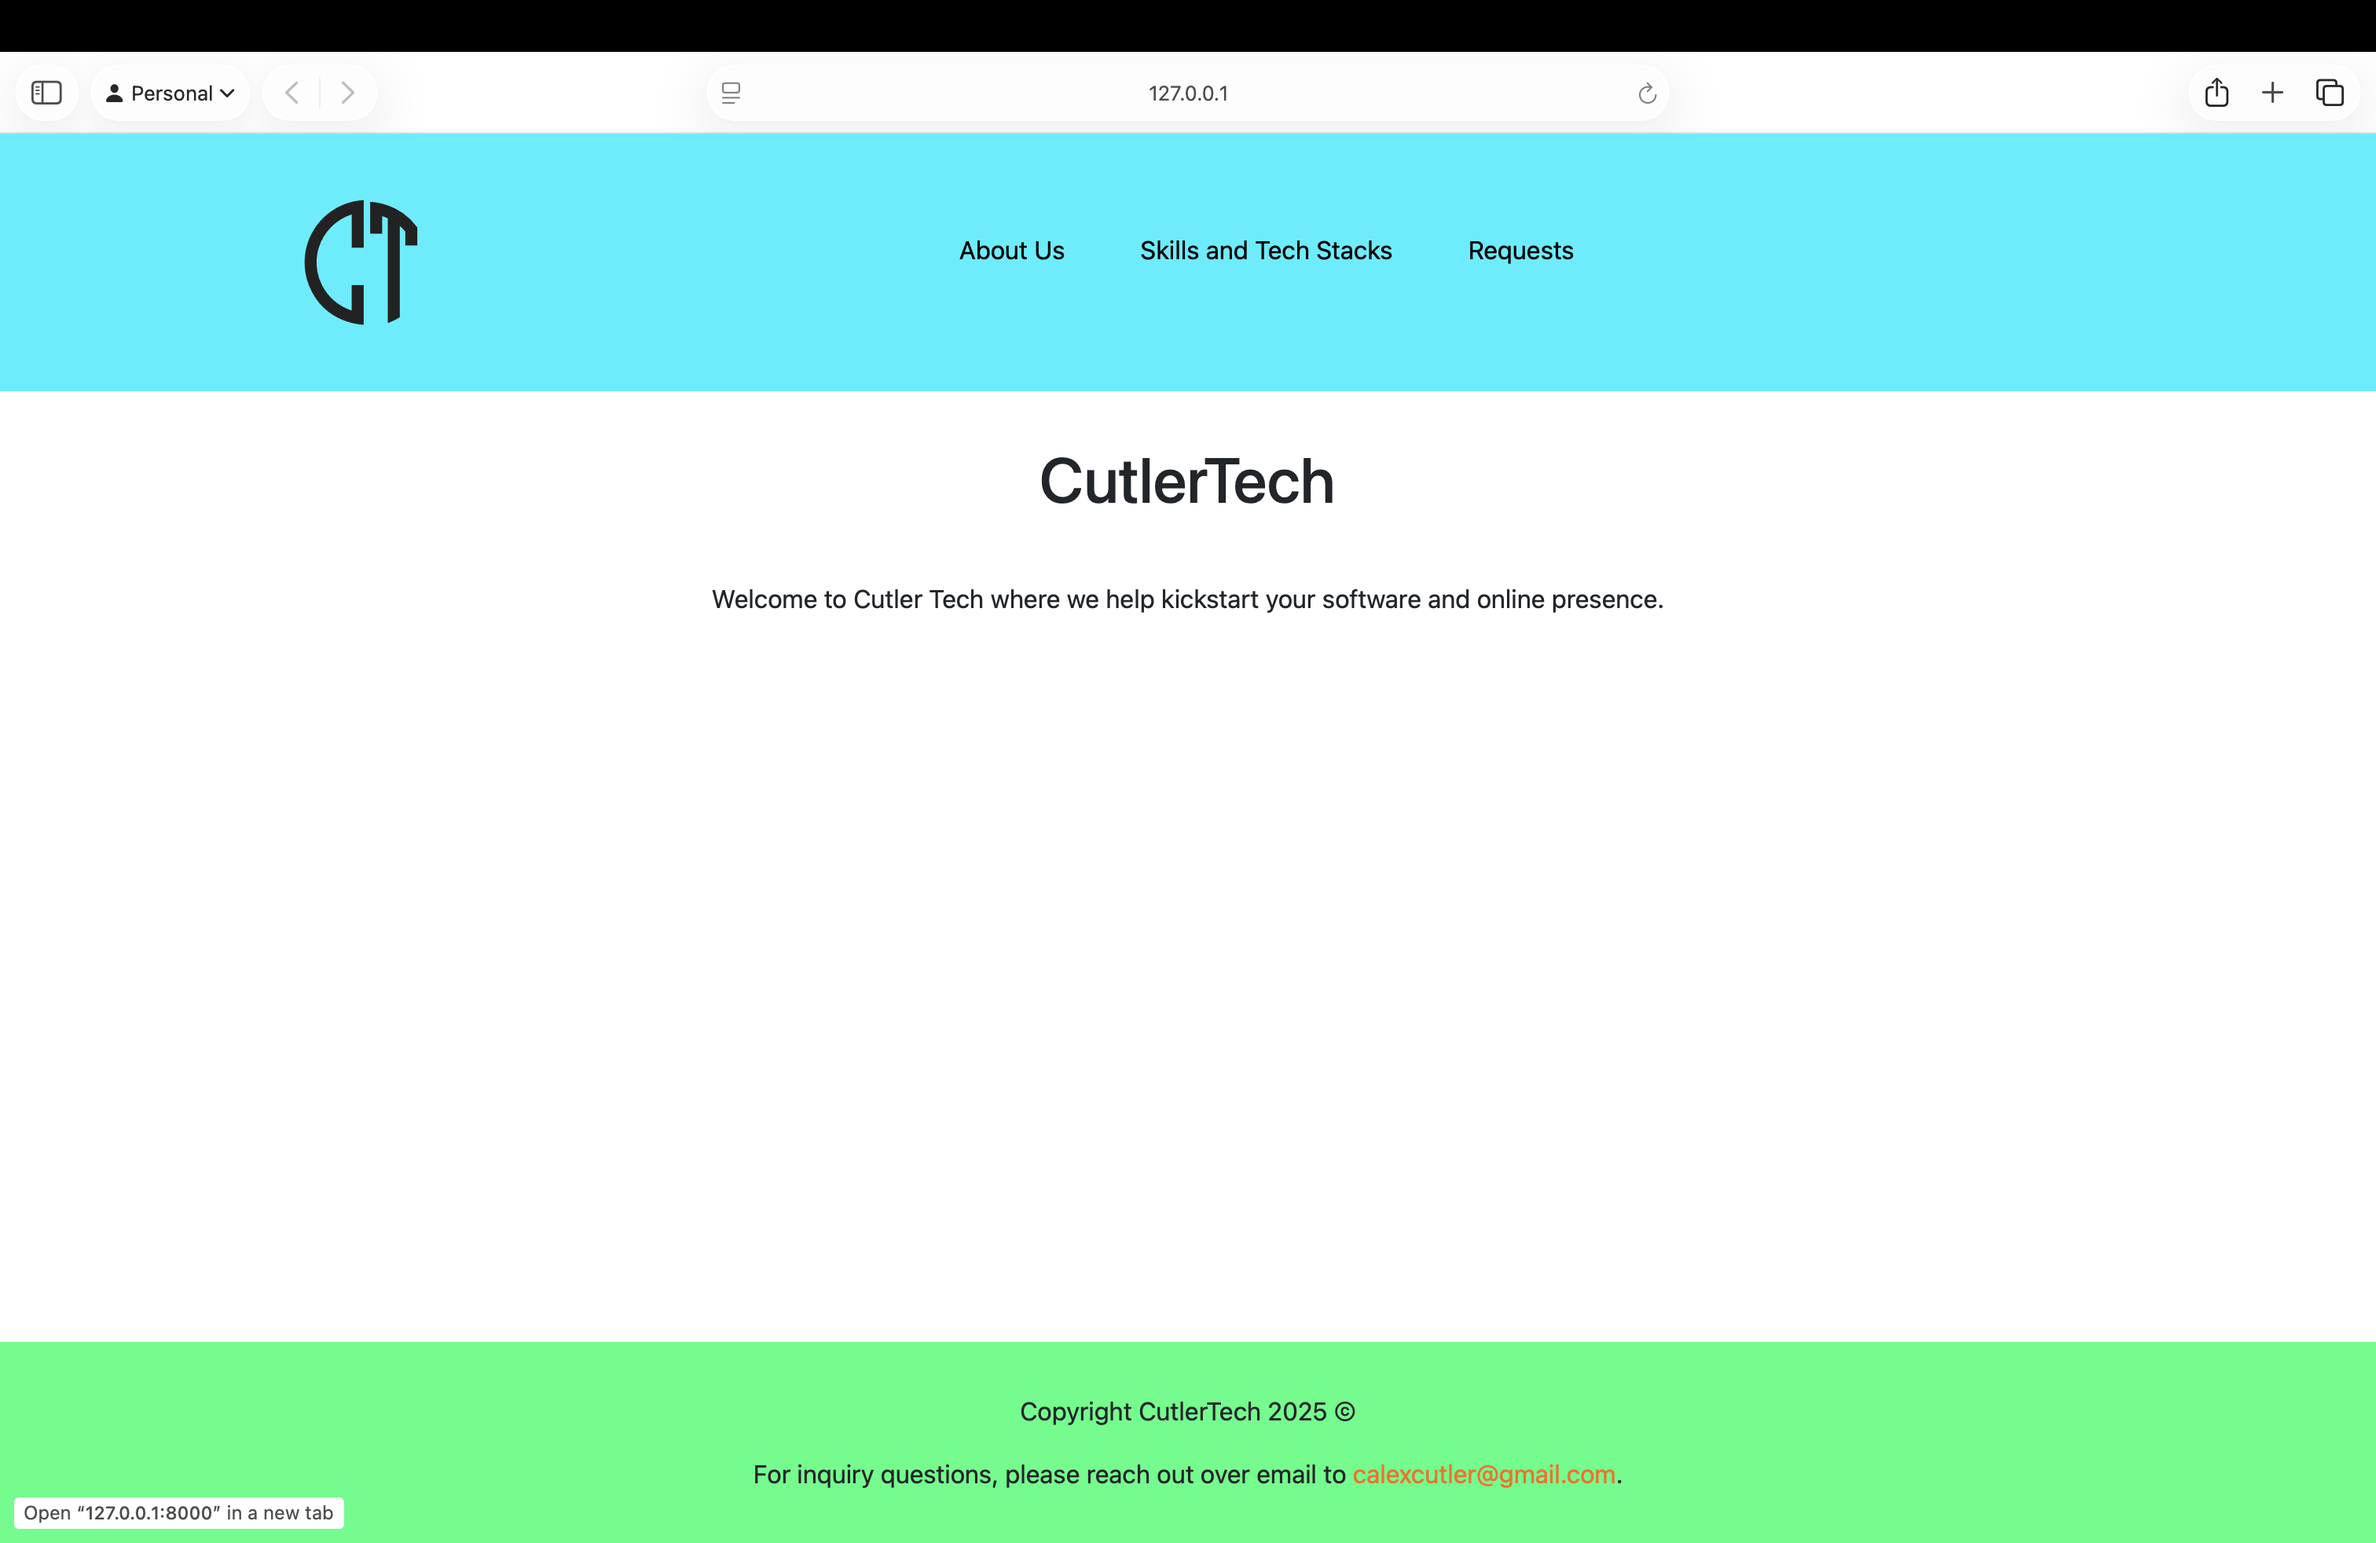
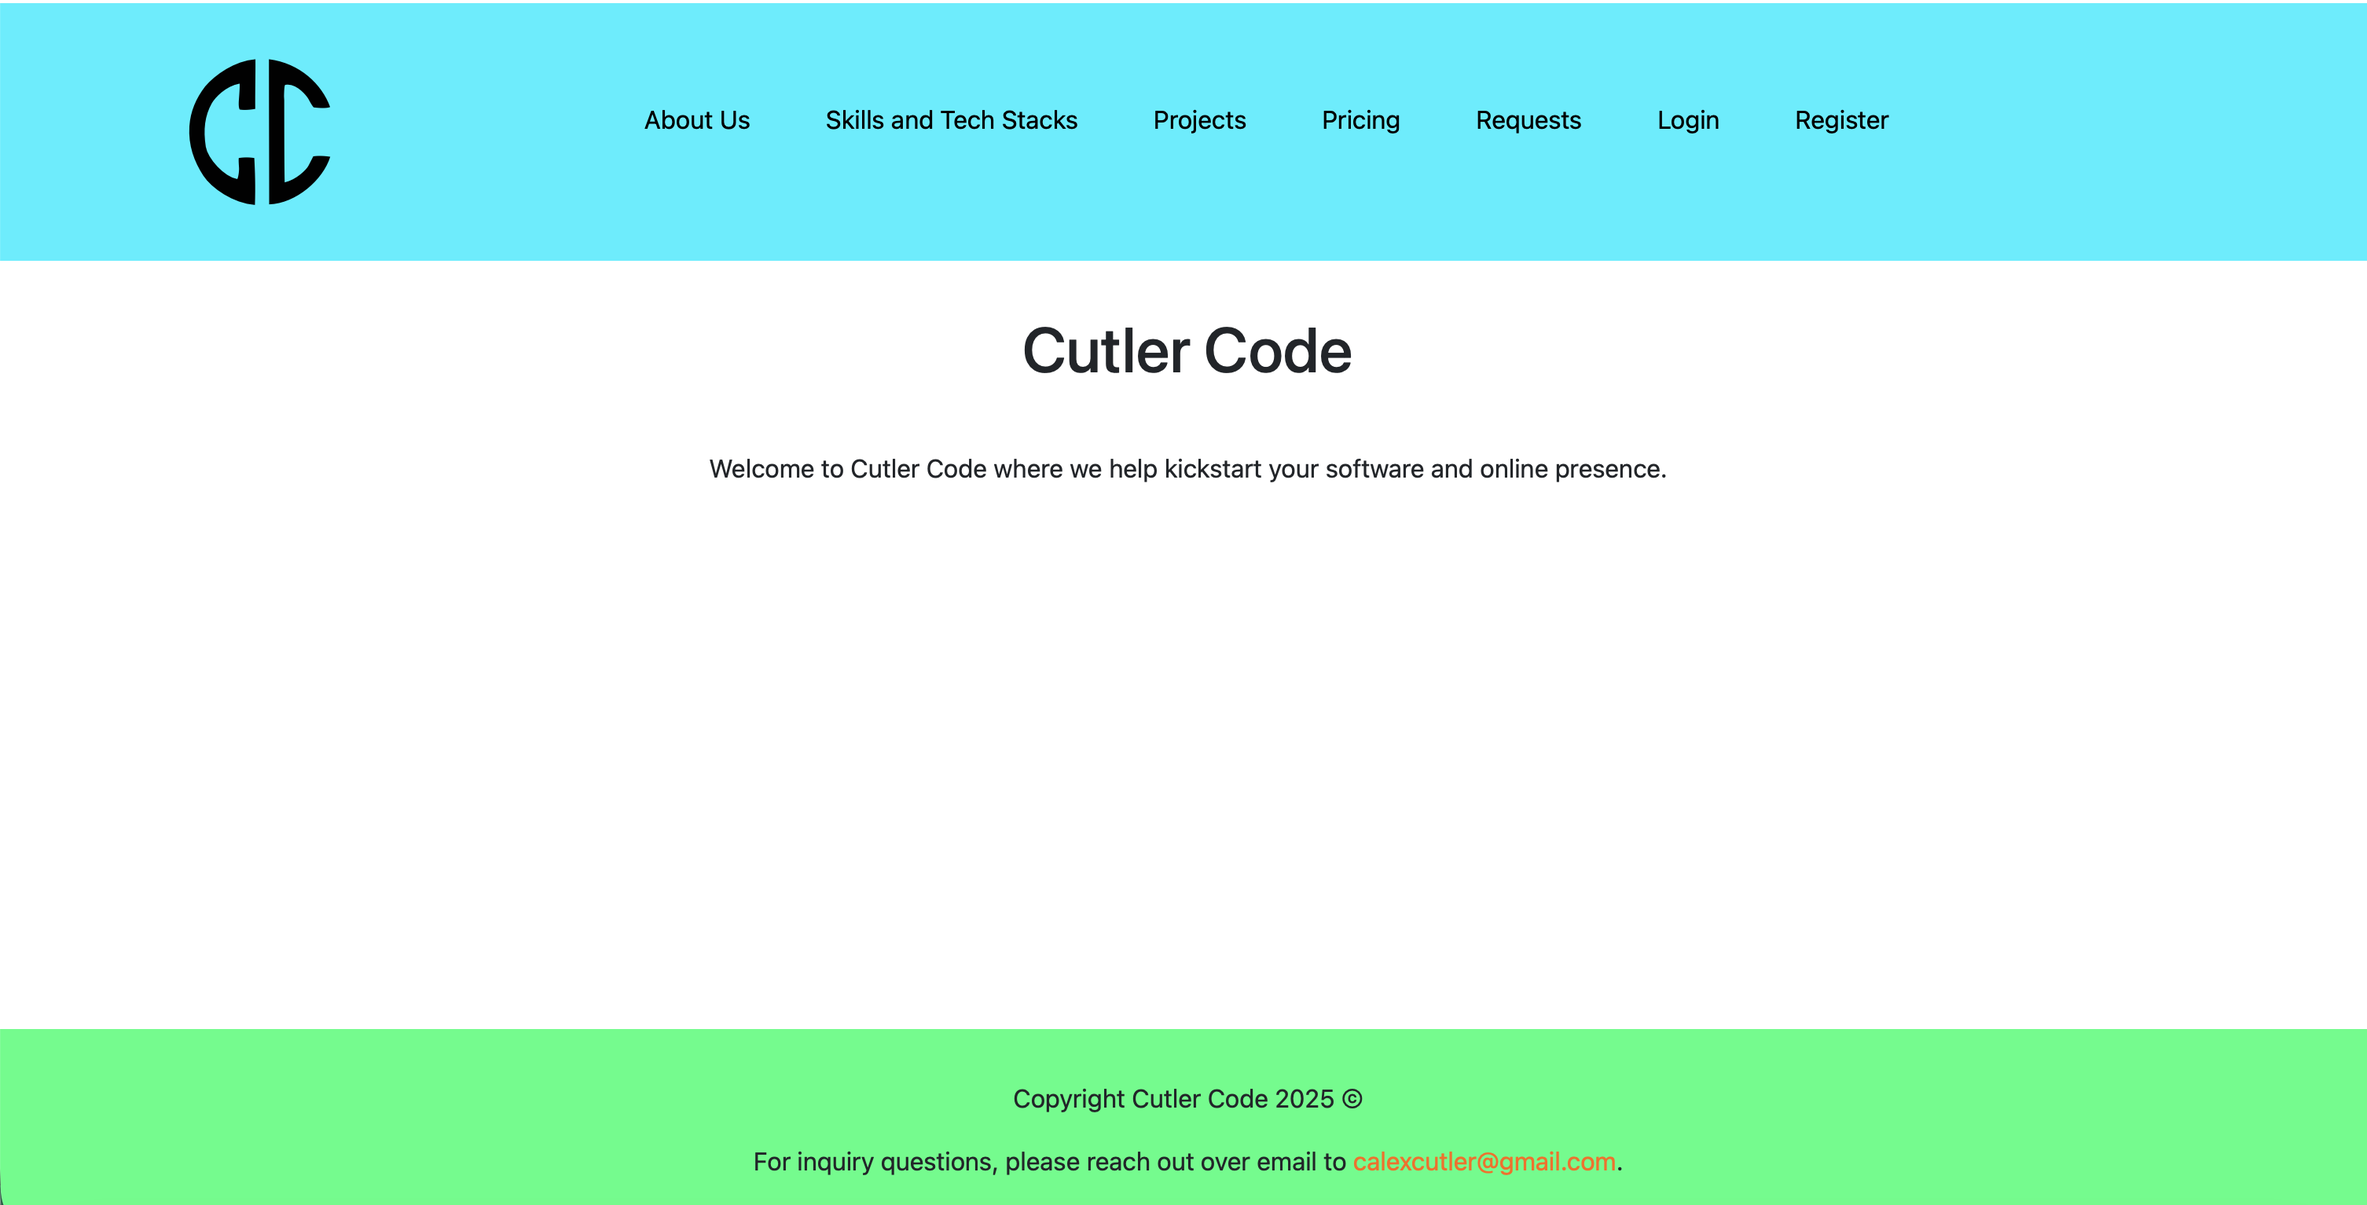
Updated the name to be Cutler Code rather than CutlerTech due to another company having a similar name

diff --git a/resources/views/master.blade.php b/resources/views/master.blade.php
@@ -64,7 +64,7 @@
             @yield('content')
         </main>
         <footer>
-            <p>Copyright CutlerTech 2025 &copy;</p>
+            <p>Copyright Cutler Code 2025 &copy;</p>
             <p>For inquiry questions, please reach out over email to <a style="color: #FF6800" href="mailto:calexcutler@gmail.com">calexcutler@gmail.com</a>.</p>
         </footer>
     </body>

diff --git a/resources/views/home.blade.php b/resources/views/home.blade.php
@@ -1,6 +1,6 @@
 @extends('master')
-@section('title', 'Cutler Tech')
+@section('title', 'Cutler Code')
 @section('content')
-<h1>CutlerTech</h1>
-<p>Welcome to Cutler Tech where we help kickstart your software and online presence.</p>
+<h1>Cutler Code</h1>
+<p>Welcome to Cutler Code where we help kickstart your software and online presence.</p>
 @endsection

diff --git a/resources/views/projects.blade.php b/resources/views/projects.blade.php
@@ -4,7 +4,7 @@
 <h1>Projects</h1>
 <div class="grid">
     <div class="project-card">
-        <h2>CutlerTech Website</h2>
+        <h2>Cutler Code Website</h2>
         <a href="#"><img src="{{asset('images/project_image.png')}}" alt="CutlerTech Website link" class="project-image"></a>
         <b>Web Development</b>
         <p>Stack: Laravel</p>

diff --git a/resources/views/about.blade.php b/resources/views/about.blade.php
@@ -7,7 +7,7 @@
         <img src="{{asset('images/Alex_Headshot.jpg')}}" alt="Alex Cutler Headshot" class="headshot">
         <h4>Alex Cutler</h4>
         <b>CEO/Owner</b>
-        <p>Alex is the software brains behind CutlerTech.</p>
+        <p>Alex is the software brains behind Cutler Code.</p>
     </div>
 </div>
 <style>
